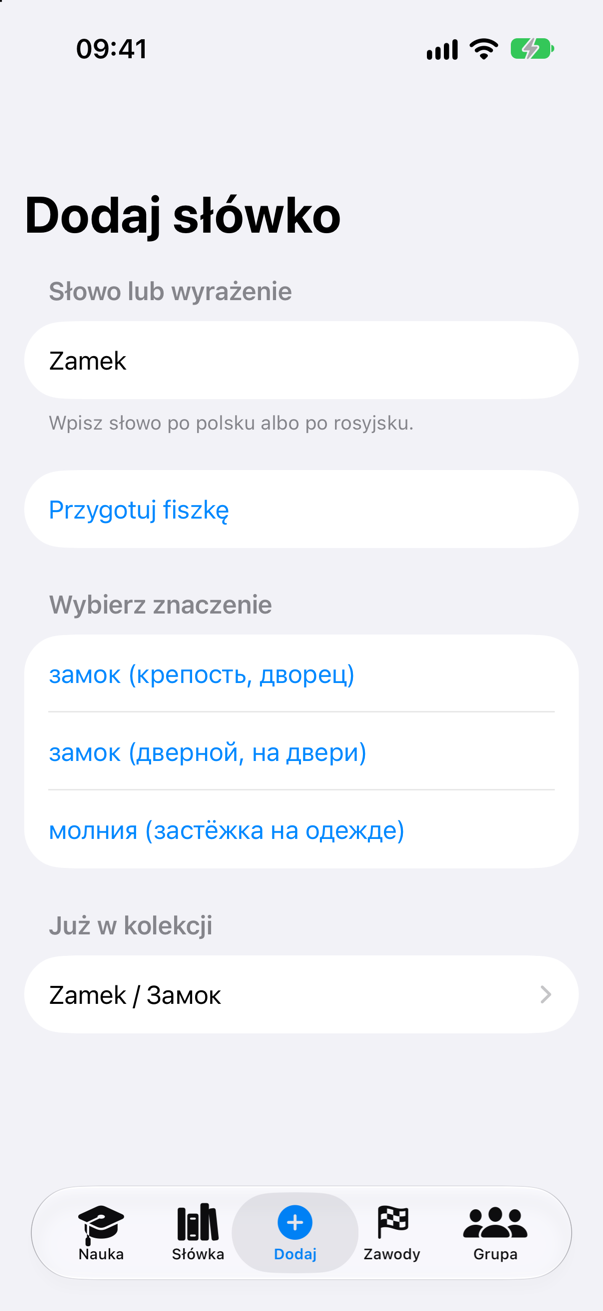
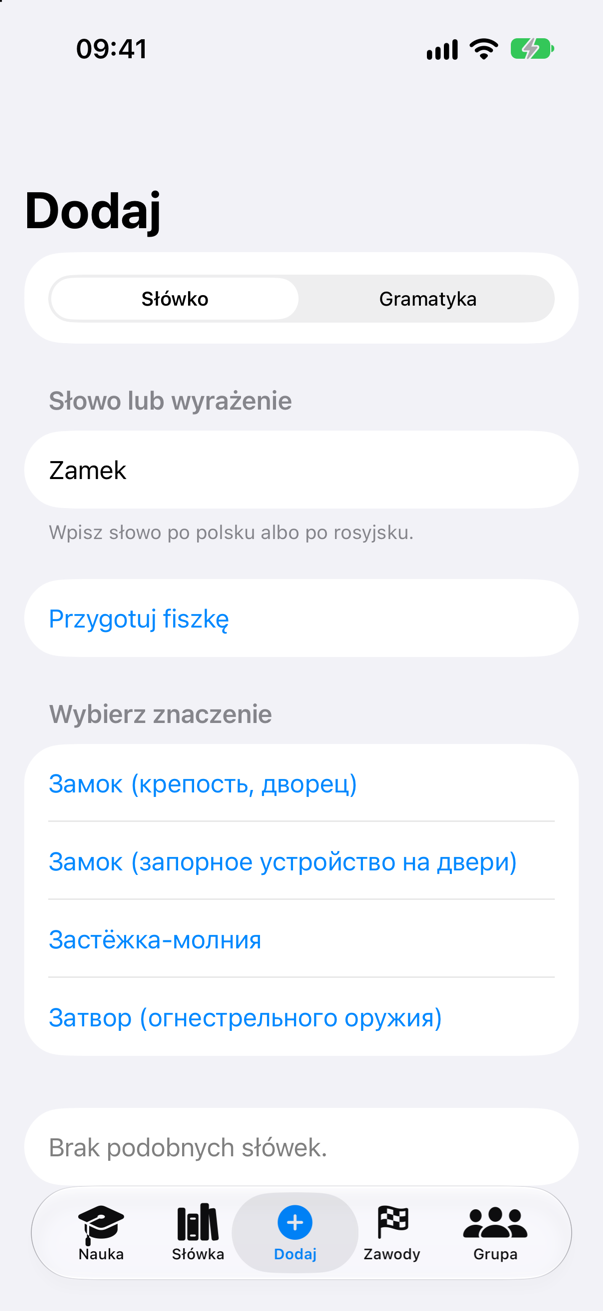
docs: add screenshots of the grammar check in the Dodaj tab

diff --git a/README.md b/README.md
@@ -14,7 +14,7 @@ The app is in development. These screens exist today:
 
 | Words | Card | Add |
 |---|---|---|
-| <img src="docs/screenshots/words.png" width="240" alt="The Słówka tab with the cards of the group"> | <img src="docs/screenshots/card.png" width="240" alt="The form of a card with its fields"> | <img src="docs/screenshots/add.png" width="240" alt="The Dodaj tab with the meanings of a word and a card of the collection that matches the word"> |
+| <img src="docs/screenshots/words.png" width="240" alt="The Słówka tab with the cards of the group"> | <img src="docs/screenshots/card.png" width="240" alt="The form of a card with its fields"> | <img src="docs/screenshots/add.png" width="240" alt="The Dodaj tab in the mode Słówko, with the meanings of a word"> |
 
 | Study | Feedback | All done |
 |---|---|---|
@@ -23,6 +23,10 @@ The app is in development. These screens exist today:
 | Grammar card | Grammar feedback | Grammar card in Słówka |
 |---|---|---|
 | <img src="docs/screenshots/grammar.png" width="240" alt="The Nauka tab with the gap sentence of a grammar card, its hint and a typed answer"> | <img src="docs/screenshots/grammar-feedback.png" width="240" alt="The grade of a wrong answer to a grammar card, with the gap sentence filled, an explanation of the AI model, the topic, the rule and the examples"> | <img src="docs/screenshots/grammar-card.png" width="240" alt="The screen of a grammar card in the Słówka tab, with the gap sentence, the hint, the answer, the used form and the right form, the topic, the rule and the examples"> |
+
+| Check grammar | Cards of a check |
+|---|---|
+| <img src="docs/screenshots/add-grammar.png" width="240" alt="The Dodaj tab in the mode Gramatyka, with a Polish text of the learner and the button that starts the check"> | <img src="docs/screenshots/grammar-check.png" width="240" alt="The check screen with two grammar cards of a check, each with the topic, the used form, the right form, the answer, the gap sentence and the hint"> |
 
 ## Parts
 
